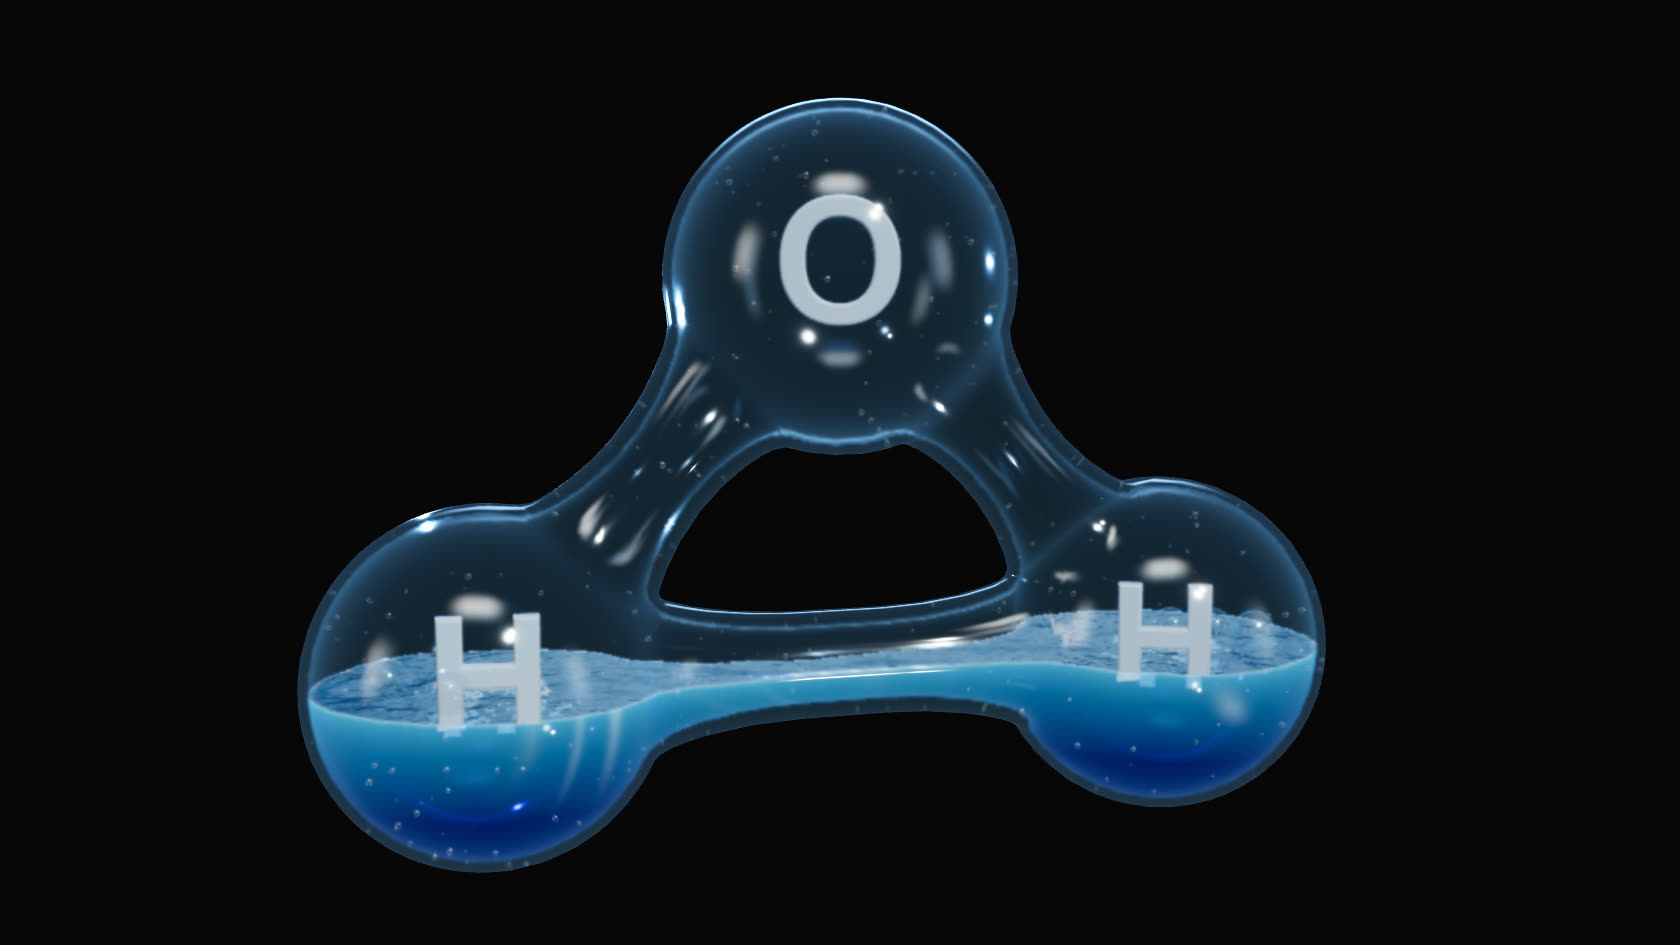
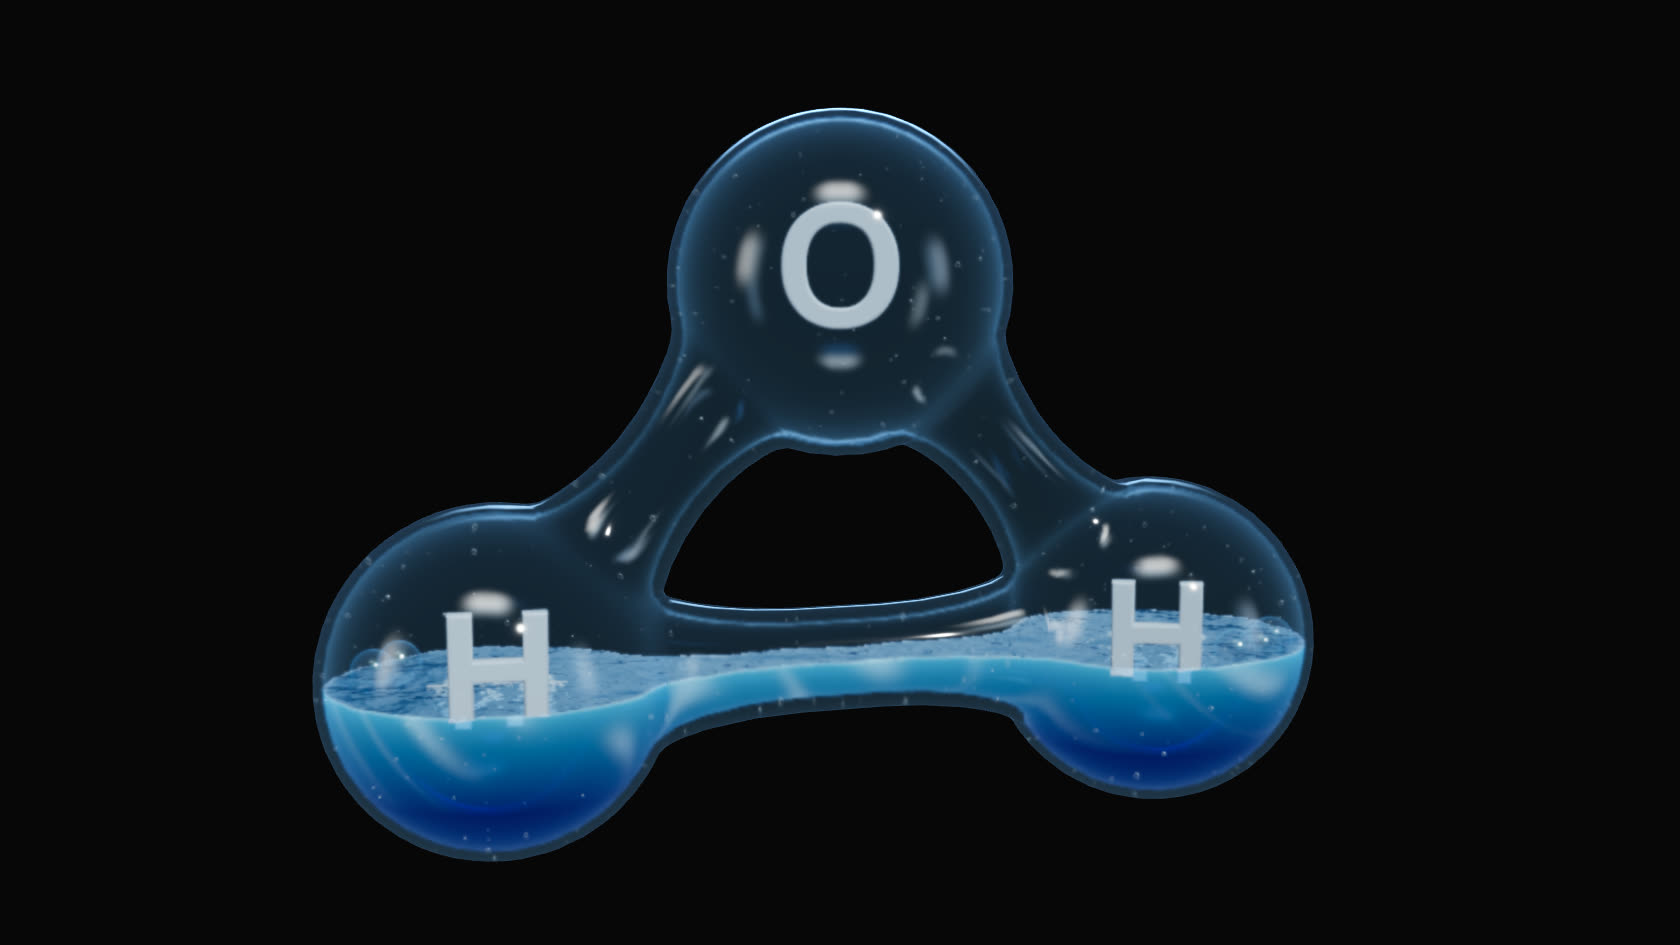
feat(water): одна лампа и без бликов ламп на внутренней стенке — 15 → 5 бликов
Контровая и заполняющая лампы убраны (и их ползунки), внутренняя стенка
больше не повторяет блики ламп — мягкие отражения окружения остаются.
Обложка переснята под новый свет.

diff --git a/app/utils/gluke-water/glass-material.js b/app/utils/gluke-water/glass-material.js
@@ -93,6 +93,9 @@ export function createInnerGlassMaterial(p, side) {
     Object.assign(shader.uniforms, uniforms);
     shader.fragmentShader = shader.fragmentShader
       .replace('void main() {', 'uniform vec3 uRimColor;\nuniform float uRimStrength;\nuniform float uRimPower;\nvoid main() {')
+      // блики ламп внутренняя стенка не повторяет: на каждую лампу выходило по лишнему блику
+      // с ближней и с дальней стенки. Мягкие отражения окружения и кромка остаются.
+      .replace('#include <aomap_fragment>', 'reflectedLight.directSpecular = vec3(0.0);\n#include <aomap_fragment>')
       .replace(
         '#include <dithering_fragment>',
         `#include <dithering_fragment>

diff --git a/app/utils/widgetDemoSpecs.ts b/app/utils/widgetDemoSpecs.ts
@@ -732,8 +732,6 @@ export const WIDGET_DEMO_SPECS: Record<string, WidgetDemoSpec> = {
       faceTilt: 0,
       exposure: 1.1,
       keyLight: 2.2,
-      rimLight: 30,
-      fillLight: 12,
     },
     createOptions: ({ demo, narrow }) => ({
       /* Модель задаёт кейс: имена объектов внутри — в gluke-water/config.js. */
@@ -868,8 +866,6 @@ export const WIDGET_DEMO_SPECS: Record<string, WidgetDemoSpec> = {
         controls: [
           { key: 'exposure', min: 0.3, max: 2.5, step: 0.01 },
           { key: 'keyLight', min: 0, max: 6, step: 0.05 },
-          { key: 'rimLight', min: 0, max: 100, step: 1 },
-          { key: 'fillLight', min: 0, max: 60, step: 1 },
         ],
       },
     ],

diff --git a/app/utils/gluke-water/lighting.js b/app/utils/gluke-water/lighting.js
@@ -7,11 +7,7 @@ export function createLighting(scene) {
   // считалась бы каждый кадр
   scene.add(key, key.target);
 
-  const rim = new THREE.PointLight('#8fc8ff', 30, 20);
-  rim.position.set(-4, 3, -5);
-  const fill = new THREE.PointLight('#bfe0ff', 12, 20);
-  fill.position.set(4, -1, 6);
-  scene.add(rim, fill);
-
-  return { key, rim, fill };
+  // Одна лампа: контровая и заполняющая точечные лампы давали на стекле по своему набору бликов
+  // (вместе с ключевой — 15 ярких пятен на кадр). Объём держат софтбоксы окружения.
+  return { key };
 }

diff --git a/app/utils/gluke-water/molecule-viewer.js b/app/utils/gluke-water/molecule-viewer.js
@@ -76,7 +76,7 @@ export class MoleculeViewer {
     this.camera = new THREE.PerspectiveCamera(28, 1, 0.1, 100);
     this.lights = createLighting(this.scene);
     // свет нужен и в проходе преломления воды
-    for (const l of [this.lights.key, this.lights.rim, this.lights.fill]) l.layers.enable(REFRACTION_LAYER);
+    this.lights.key.layers.enable(REFRACTION_LAYER);
     this.backdrop = this.createTransmissionBackdrop();
     this.scene.add(this.backdrop);
 

diff --git a/app/utils/gluke-water.js b/app/utils/gluke-water.js
@@ -135,8 +135,6 @@ const DEFAULTS = {
   // --- свет ---
   exposure: 1.1,
   keyLight: 2.2,
-  rimLight: 30,
-  fillLight: 12,
 
   // --- бюджет ---
   ratioCap: 2,
@@ -397,12 +395,6 @@ const PARAMS = {
   },
   keyLight: (v, w) => {
     w.lights.key.intensity = v
-  },
-  rimLight: (v, w) => {
-    w.lights.rim.intensity = v
-  },
-  fillLight: (v, w) => {
-    w.lights.fill.intensity = v
   },
 }
 

diff --git a/i18n/locales/ru.ts b/i18n/locales/ru.ts
@@ -380,8 +380,6 @@ export default {
         waterFaceTilt: 'Наклон к камере',
         waterExposure: 'Экспозиция',
         waterKeyLight: 'Ключевой свет',
-        waterRimLight: 'Контровой свет',
-        waterFillLight: 'Заполняющий свет',
       },
       reset: 'Сбросить',
       copy: 'Скопировать JSON',

diff --git a/i18n/locales/en.ts b/i18n/locales/en.ts
@@ -380,8 +380,6 @@ export default {
         waterFaceTilt: 'Tilt towards the camera',
         waterExposure: 'Exposure',
         waterKeyLight: 'Key light',
-        waterRimLight: 'Rim light',
-        waterFillLight: 'Fill light',
       },
       reset: 'Reset',
       copy: 'Copy JSON',

diff --git a/content/projects/ru/water.md b/content/projects/ru/water.md
@@ -112,12 +112,10 @@ demo:
     letterEmissive: '#e6f4ff'
     exposure: 1.1
     keyLight: 2.2
-    rimLight: 30
-    fillLight: 12
 metrics:
   - value: GPU
     label: волны и течение считаются на видеокарте, сотни шагов в секунду
-  - value: "77"
+  - value: "75"
     label: параметра, которые крутятся прямо на странице
   - value: "2"
     label: режима воды — с шариками и высокая, со взвесью
@@ -150,4 +148,4 @@ media: []
 
 ## Результат
 
-Сцена работает на прозрачном фоне и встраивается в страницу как любой наш виджет: скорость вращения и реакцию на прокрутку задаёт сайт, модель подставляется настройкой кейса. Панель под молекулой выросла из той, по которой подбиралась сцена: 77 живых параметров, от толщины стекла и цвета воды до вязкости, упругости шариков и силы курсора. Слои можно выключать по одному и посмотреть, из чего собрана картинка, а один переключатель поднимает воду до верхней доли.
+Сцена работает на прозрачном фоне и встраивается в страницу как любой наш виджет: скорость вращения и реакцию на прокрутку задаёт сайт, модель подставляется настройкой кейса. Панель под молекулой выросла из той, по которой подбиралась сцена: 75 живых параметров, от толщины стекла и цвета воды до вязкости, упругости шариков и силы курсора. Слои можно выключать по одному и посмотреть, из чего собрана картинка, а один переключатель поднимает воду до верхней доли.

diff --git a/content/projects/en/water.md b/content/projects/en/water.md
@@ -112,12 +112,10 @@ demo:
     letterEmissive: '#e6f4ff'
     exposure: 1.1
     keyLight: 2.2
-    rimLight: 30
-    fillLight: 12
 metrics:
   - value: GPU
     label: waves and flow computed on the graphics card, hundreds of steps a second
-  - value: "77"
+  - value: "75"
     label: parameters you can tune right on the page
   - value: "2"
     label: water modes — with floating balls, and high water with suspended particles
@@ -150,4 +148,4 @@ The model was made in Blender for this job: outer and inner shells of 7.5 thousa
 
 ## The result
 
-The scene runs on a transparent background and drops into a page like any of our widgets: the site sets the rotation speed and the scroll response, and the model is set in the case configuration. The panel under the molecule grew out of the one the scene was tuned with: 77 live parameters, from glass thickness and water colour to viscosity, ball bounciness and cursor strength. Layers can be switched off one by one to see what the picture is made of, and a single switch raises the water into the top lobe.
+The scene runs on a transparent background and drops into a page like any of our widgets: the site sets the rotation speed and the scroll response, and the model is set in the case configuration. The panel under the molecule grew out of the one the scene was tuned with: 75 live parameters, from glass thickness and water colour to viscosity, ball bounciness and cursor strength. Layers can be switched off one by one to see what the picture is made of, and a single switch raises the water into the top lobe.

diff --git a/docs/changes-log.md b/docs/changes-log.md
@@ -3036,6 +3036,16 @@ ESLint, как `gluke-pyramid.js`. Путь шрифтовых букв (opentyp
 `widgetThemeLook.ts`). Переключение темы перекрашивает и шапку, и лабораторию
 без пересоздания сцены.
 
+**Блики (77 → 75).** На стекле было 15 ярких бликов на кадр. Замер по
+вариантам: только окружение (софтбоксы) — 0 ярких, только лампы — 15; контровая
+и заполняющая точечные лампы — 6, внутренняя стенка повторяла блики ламп ещё
+~5 раз (ближняя и дальняя стенки). Оставлена одна ключевая лампа, внутренней
+стенке обнулён прямой блик (`reflectedLight.directSpecular` перед
+`<aomap_fragment>`) — мягкие отражения окружения и кромка у неё остались.
+Стало 5 бликов. Ползунки «Контровой свет» и «Заполняющий свет» убраны;
+ключевую не усиливал — при ×1,6 бликов не прибавляется, только пересвет.
+Обложка переснята под новый свет.
+
 **Кейс.** `content/projects/{ru,en}/water.md`, модель
 `public/media/projects/water/molecule.glb`, обложка снята из виджета.
 
